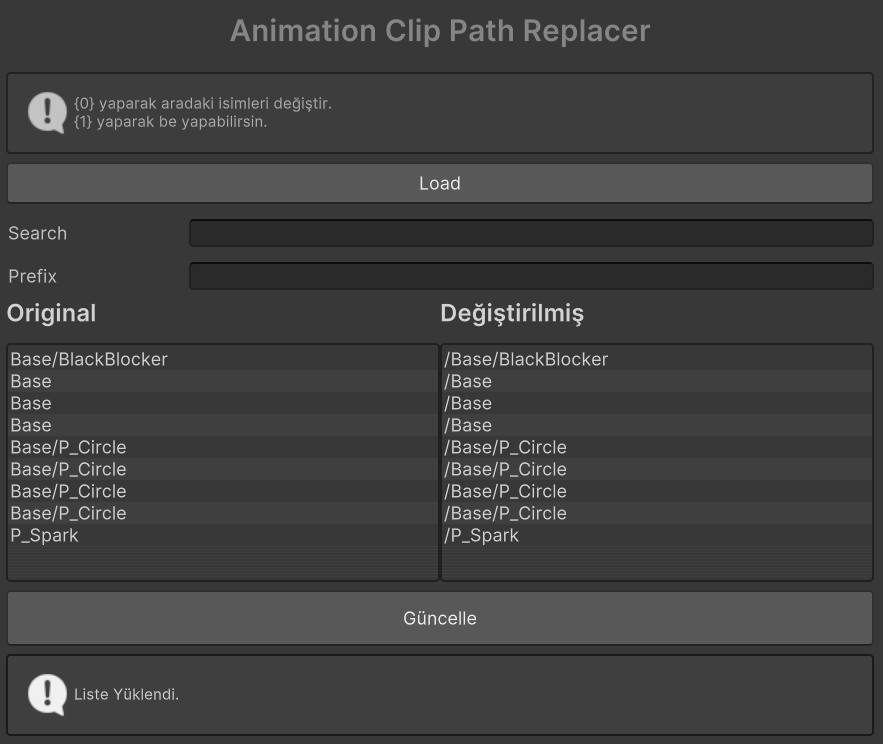
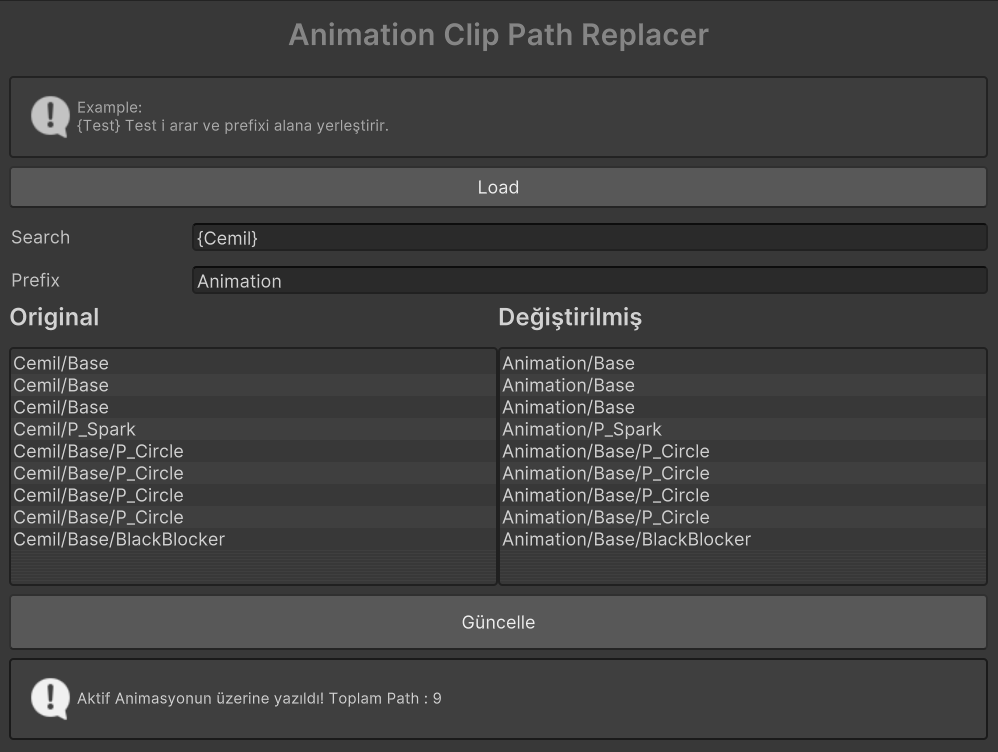
**AnimationPath:** refactoring

diff --git a/Assets/Editor/AnimationPathReplacer.cs b/Assets/Editor/AnimationPathReplacer.cs
@@ -1,6 +1,8 @@
 using System;
 using System.Collections.Generic;
 using System.Reflection;
+using System.Text.RegularExpressions;
+using Unity.Mathematics;
 using Unity.VisualScripting;
 using UnityEditor;
 using UnityEngine;
@@ -10,7 +12,6 @@ public class AnimationPathReplacer : EditorWindow
 {
     private List<string> originalPathList = new List<string>();
     private List<string> updatedPathList = new List<string>();
-    private string log = string.Empty;
 
     private ListView originalPathListView;
     private ListView updatedPathListView;
@@ -18,6 +19,8 @@ public class AnimationPathReplacer : EditorWindow
     private HelpBox helpbox;
     private TextField searchTextField; // Arama textfield'ı
     private AnimationClip activeClip;
+    List<EditorCurveBinding> binding_global;
+    List<EditorCurveBinding> newbinding_global;
 
     [MenuItem("Window/Animation Path Replacer")]
     public static void ShowWindow()
@@ -63,8 +66,6 @@ public class AnimationPathReplacer : EditorWindow
 
     private void LoadAnimationPaths()
     {
-
-
         // Orijinal path'leri ve güncellenmiş path'leri listeye ekle
         activeClip = GetActiveAnimation();
         UpdateListview(prefixTextField.text, searchTextField.text);
@@ -158,16 +159,61 @@ public class AnimationPathReplacer : EditorWindow
             activeClip = GetActiveAnimation();
         }
 
-        foreach (var binding in AnimationUtility.GetCurveBindings(activeClip))
+        newbinding_global = new List<EditorCurveBinding>();
+        binding_global = new List<EditorCurveBinding>();
+
+        foreach (EditorCurveBinding binding in AnimationUtility.GetCurveBindings(activeClip))
         {
-            if (binding.path.Contains(searchTerm) == true || searchTerm == "")
+            Match SearchMatch = Regex.Match(searchTerm, @"\{(.*?)\}");
+
+            if (SearchMatch.Groups.Count > 1)
+            {
+                string match1 = SearchMatch.Groups[1].Value;
+
+                if (binding.path.Contains(match1) == true)
+                {
+                    {
+                        originalPathList.Add(binding.path);
+                        string newPath = binding.path.Replace(match1, prefix);
+                        updatedPathList.Add(newPath); // Güncellenmiş path'i updatedPathList'e ekle
+
+                        //Binding al ve değiştir
+
+                        EditorCurveBinding newBinding = binding;
+                        newBinding.path = newPath;
+
+                        newbinding_global.Add(newBinding);
+                        binding_global.Add(binding);
+
+
+
+
+                    }
+                }
+
+            }
+
+            if (binding.path.Contains(searchTerm) == true)
             {
                 {
                     originalPathList.Add(binding.path);
                     string newPath = prefix + "/" + binding.path;
                     updatedPathList.Add(newPath); // Güncellenmiş path'i updatedPathList'e ekle
+
+
+                    //Binding al ve değiştir
+                    var newBinding = binding;
+                    newBinding.path = newPath;
+
+                    newbinding_global.Add(newBinding);
+                    binding_global.Add(binding);
+
+
                 }
             }
+
+
+
         }
 
         // ListView'lere öğeleri ekle
@@ -243,52 +289,24 @@ public class AnimationPathReplacer : EditorWindow
         }
 
         // Path'leri güncelle ve animasyon klibe yaz
-        updatedPathList.Clear();
-        foreach (var binding in AnimationUtility.GetCurveBindings(activeClip))
+
+        int index = 0;
+        foreach (var newbinding in newbinding_global)
         {
-            /**************************************************************
 
-            ***/
-            if (binding.path.Contains(searchTextField.text) == true || searchTextField.text == "")
-            {
+            var curve = AnimationUtility.GetEditorCurve(activeClip, binding_global[index]);
+            AnimationUtility.SetEditorCurve(activeClip, binding_global[index], null); // Eski path'i kaldır
+            AnimationUtility.SetEditorCurve(activeClip, newbinding, curve);
+            index++;
 
-                string newPath = prefix + "/" + binding.path;
-                updatedPathList.Add(newPath);
-
-                // Yeni binding ile eğriyi klibe yaz
-                var newBinding = binding;
-                newBinding.path = newPath;
-
-                // Mevcut eğriyi al ve yeni path ile ayarla
-                var curve = AnimationUtility.GetEditorCurve(activeClip, binding);
-                AnimationUtility.SetEditorCurve(activeClip, binding, null); // Eski path'i kaldır
-                AnimationUtility.SetEditorCurve(activeClip, newBinding, curve); // Yeni path ile aynı eğriyi ekle
-            }
         }
 
-        originalPathListView.itemsSource = originalPathList;
-        updatedPathListView.itemsSource = updatedPathList;
-        updatedPathListView.RefreshItems();
-
         helpbox.messageType = HelpBoxMessageType.Info;
-        helpbox.text = "Path'ler güncellendi ve aktif klibe yazıldı!";
+        helpbox.text = "Aktif Animasyonun üzerine yazıldı! Toplam Path : " + index.ToString();
+
     }
-    private void FilterPaths(string searchTerm)
-    {
-        // Arama terimine göre filtreleme
-        List<string> filteredOriginalPaths = originalPathList.FindAll(path => path.Contains(searchTerm, StringComparison.OrdinalIgnoreCase));
-        List<string> filteredUpdatedPaths = updatedPathList.FindAll(path => path.Contains(searchTerm, StringComparison.OrdinalIgnoreCase));
-
-        // Filtrelenmiş path'leri ListView'lere ayarla
-        originalPathListView.itemsSource = filteredOriginalPaths;
-        updatedPathListView.itemsSource = filteredUpdatedPaths;
-
-        // ListView'leri yeniden oluştur
-        originalPathListView.Rebuild();
-        updatedPathListView.Rebuild();
-    }
-
-
-
 
 }
+
+
+
